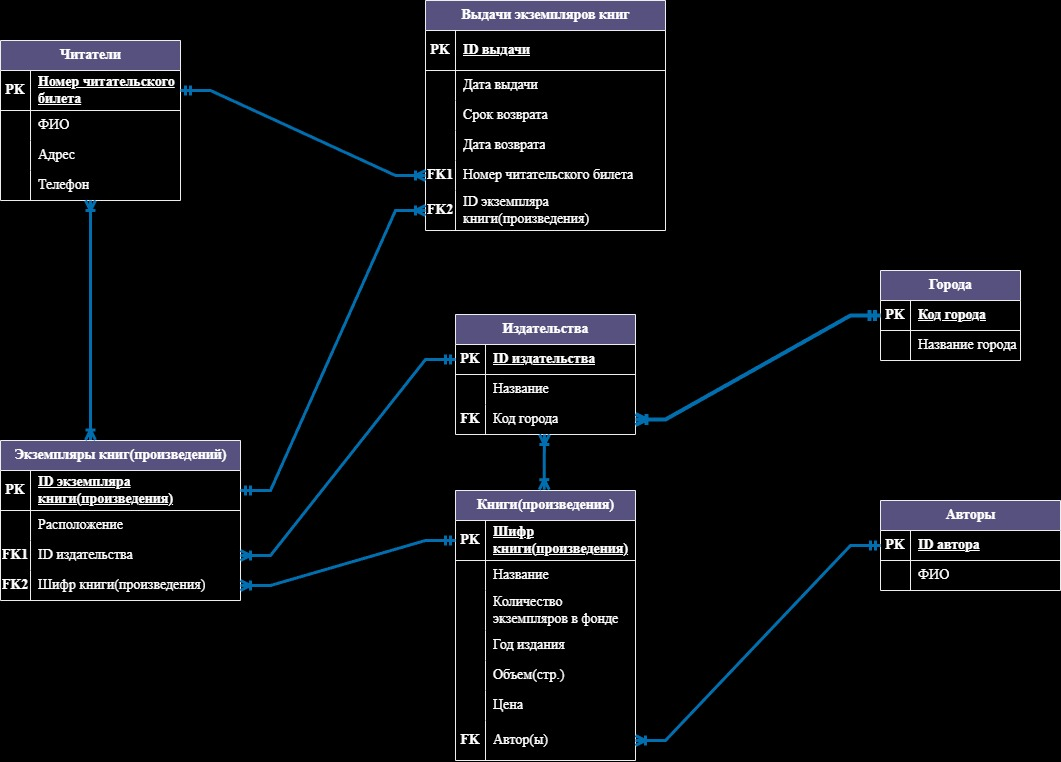
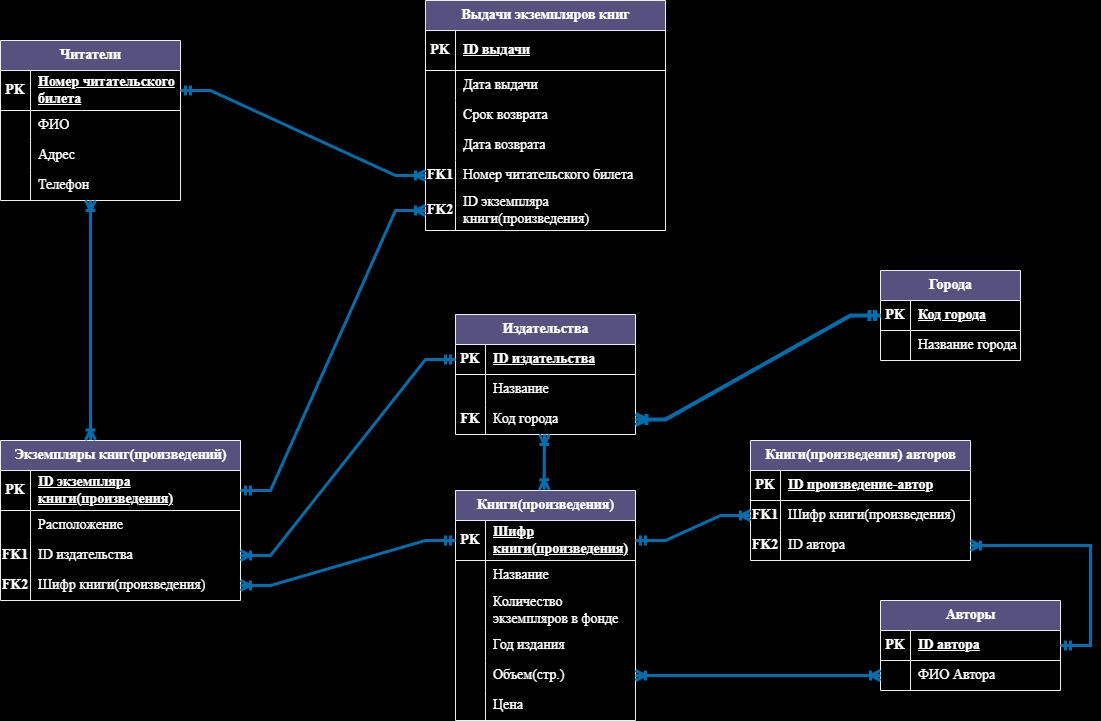
fix

diff --git a/README.md b/README.md
@@ -6,8 +6,14 @@
 
 ### Описание выбора связей:
 
-Авторы-Книги:
-    Связь - один ко многим, так как авторов может быть несколько;
+Авторы-Книги(произведения):
+    Связь - многие ко многим (через Произведения авторов), так как у разных произведений могут быть разные авторы, соавторы и наоборот;
+    
+Книги(произведения)-Книги(произведения) авторов:
+    Связь - один ко многим, так как у произведения может быть несколько авторов;
+
+Авторы-Книги(произведения) авторов:
+    Связь - один ко многим, так как у автора может быть несколько произведений;    
 
 Издательства-Города:
     Связь - один ко многим, так как у города может быть несколько издательств;
